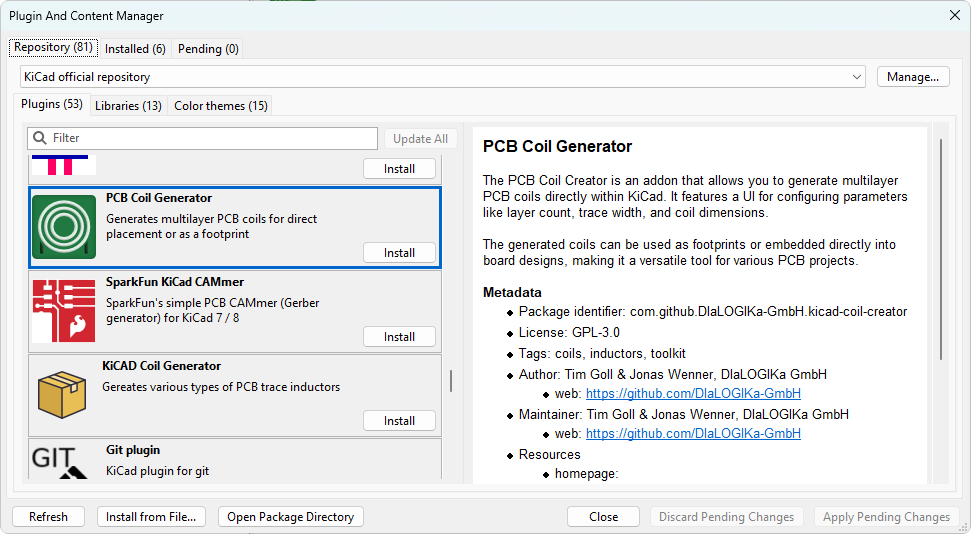
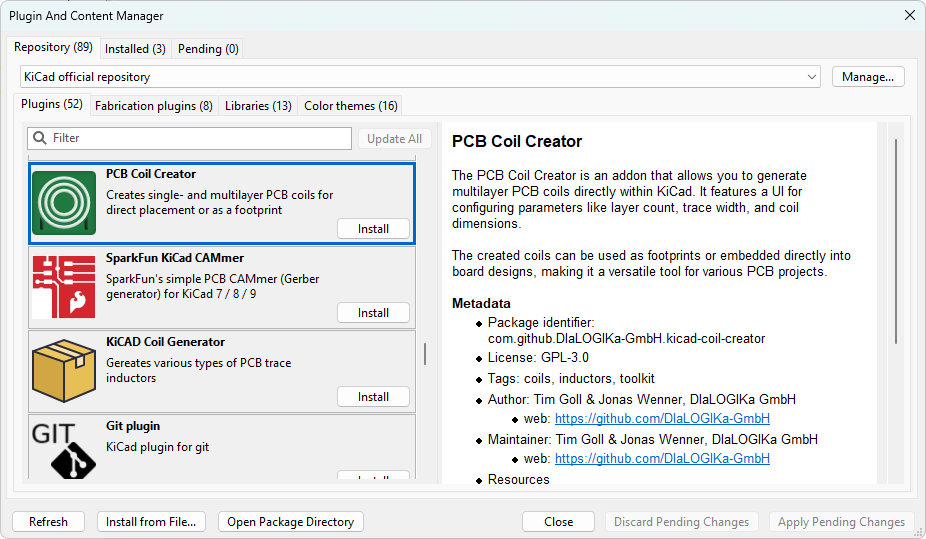
fixed readme to be more in line with current state (#22)

diff --git a/README.md b/README.md
@@ -1,6 +1,6 @@
 <img align="right" width="60px" src="assets/logo.svg">
 
-# PCB Coil Generator
+# PCB Coil Creator
 
 ## Features
 
@@ -11,7 +11,7 @@
 
 ### Official Installation
 
-The _KiCad Coil Generator_ is included with the official "Plugin and Content Manager" from KiCad version 7 or newer.
+The _PCB Coil Creator_ is included with the official "Plugin and Content Manager" from KiCad version 7 or newer.
 
 ![plugin and content manager](assets/plugin_manager.png)
 
@@ -21,7 +21,7 @@ Download the [latest release ZIP file](https://github.com/DIaLOGIKa-GmbH/kicad-c
 
 ### Development Setup
 
-Clone the repository to your local machine. Add a symbolic link from the addon's `plugin` folder to `<user documents>/KiCad/<version>/3rdparty/plugins/`. You can rename the sym-linked `plugin` folder to your liking.
+Clone the repository to your local machine. Add a symbolic link from the addon's `plugin` folder to `<user documents>/KiCad/<version>/plugins/`. You can rename the sym-linked `plugin` folder to your liking.
 
 ## Detailed Usage
 
@@ -57,4 +57,4 @@ _(Footprint automatically exported can be viewed in the footprint editor)_
   
 ## License
 
-The **KiCad PCB Coil Generator** as a whole is licensed under the GNU General Public License, Version 3. See the [license](LICENSE).
+The **KiCad PCB Coil Generator** as a whole is licensed under the GNU Affero General Public License, Version 3. See the [license](LICENSE).
